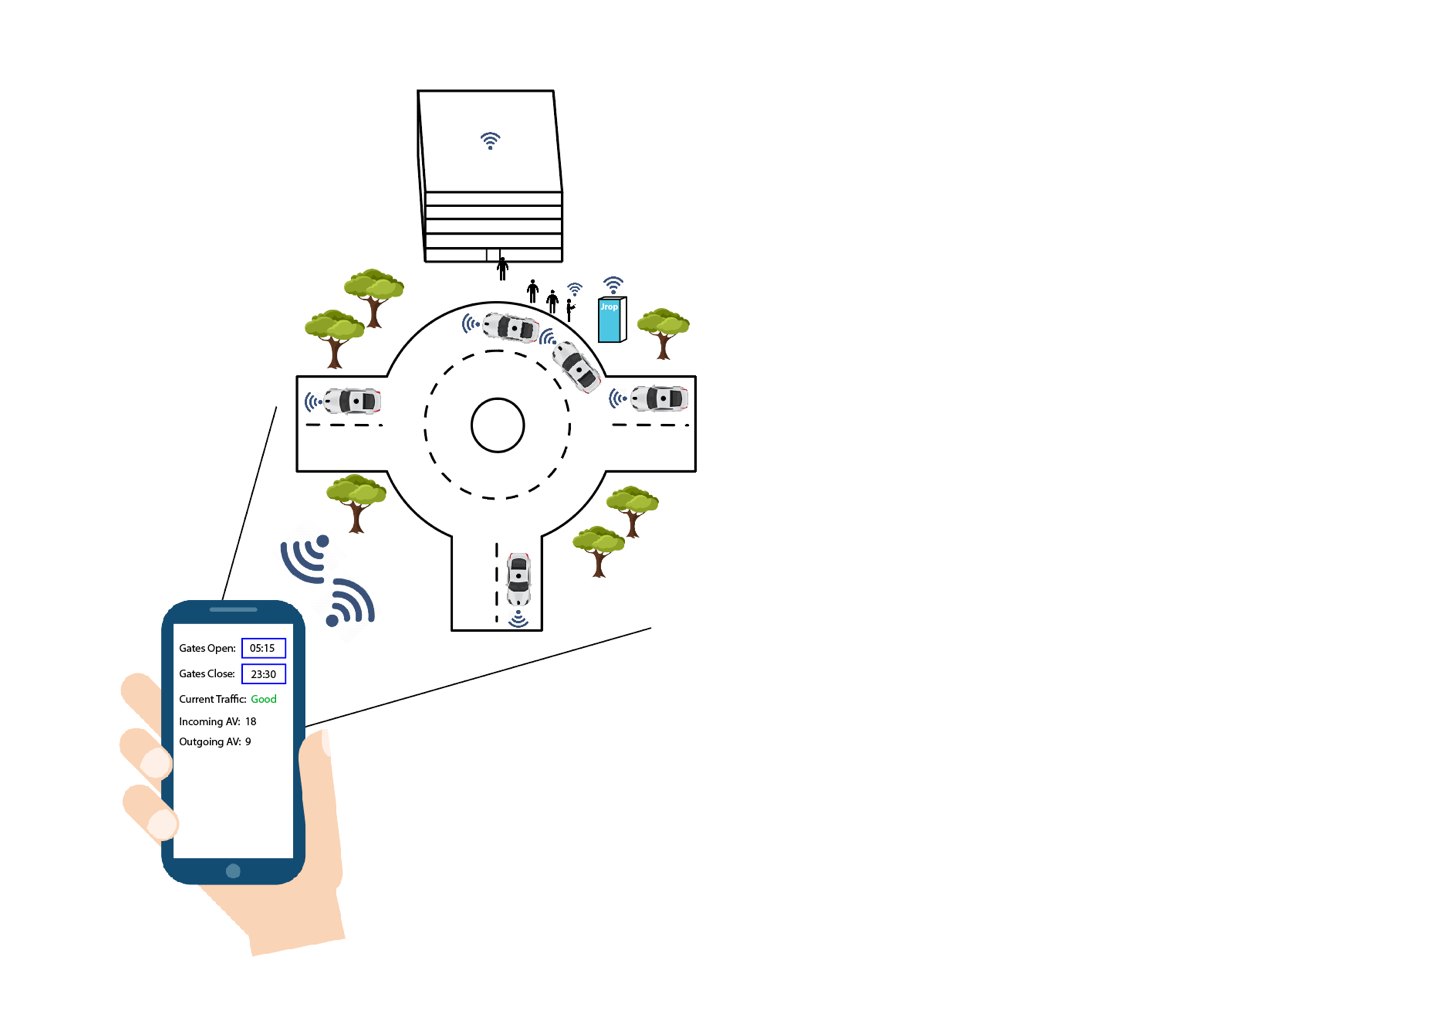
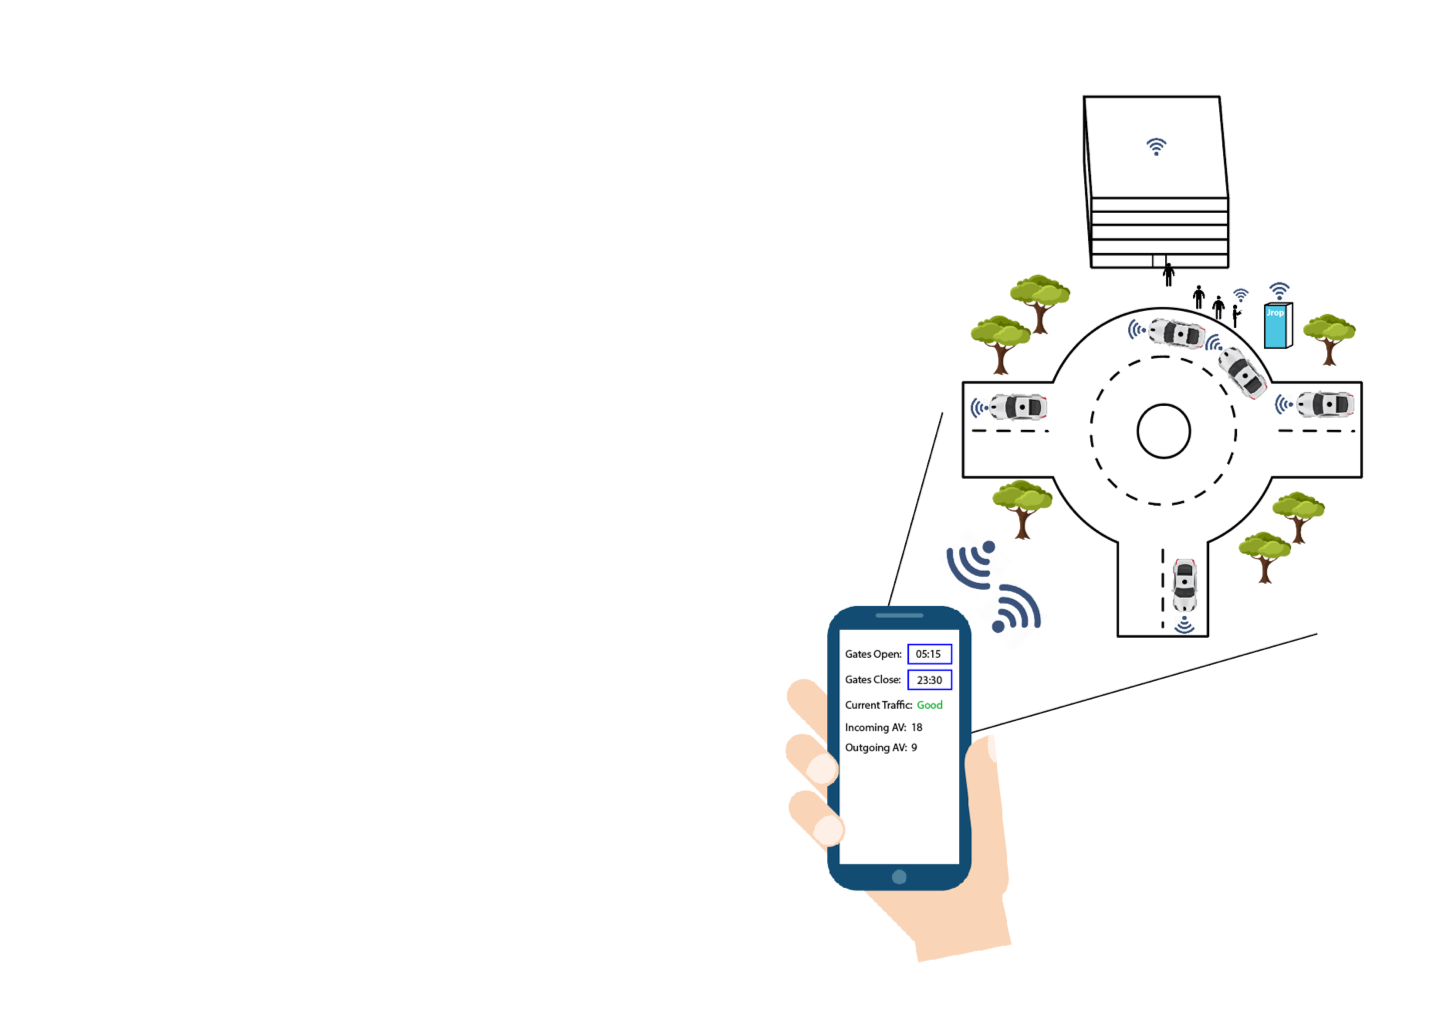
Add files via upload

diff --git a/stylesheet.css b/stylesheet.css
@@ -95,8 +95,8 @@
 .Summary1 {
 	font-family:Gotham, "Helvetica Neue", Helvetica, Arial, "sans-serif";
 	position: absolute;
-	top: 50%;
-	left: 72%;
+	top: 52%;
+	left: 70%;
 	transform: translate(-50%, -50%);
 }
 
@@ -112,8 +112,8 @@
 .Summary3 {
 	font-family:Gotham, "Helvetica Neue", Helvetica, Arial, "sans-serif";
 	position: absolute;
-	top: 40%;
-	left: 75%;
+	top: 50%;
+	left: 30%;
 	transform: translate(-50%, -50%);
 }
 
@@ -121,8 +121,7 @@
 	font-family:Gotham, "Helvetica Neue", Helvetica, Arial, "sans-serif";
 	position: absolute;
 	top: 50%;
-	left: 25%;
-	right:40%;
+	left: 70%;
 	transform: translate(-50%, -50%);
 }
 
